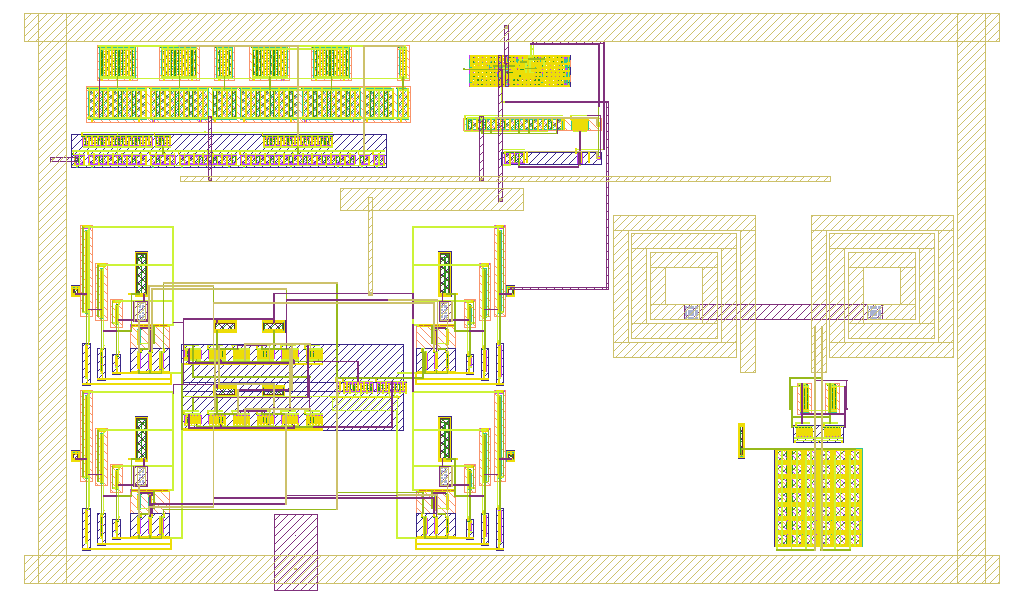
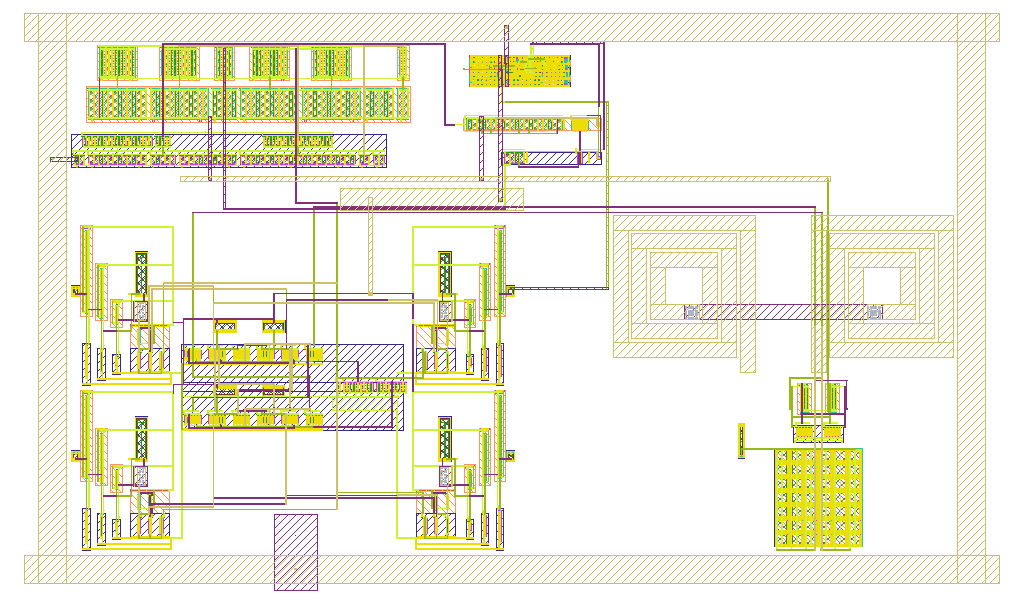
Phase 7 A5+A6: VCO load estimate + docs closeout + re-render
A5 VCO output load (review estimate, no resize): OUT_p ~494um / OUT_n ~431um routing (~40/35 fF)
+ DIV2 CML W=40 input gate (~40-55 fF) = ~75-95 fF/side -> ~-4 to -7% pull on the ~844 fF tank;
band 4.13-6.35 -> ~3.9-6.05 GHz, still covers the 4.8-5.0 GHz for the 2.4-2.5 GHz /2 output.

A6 docs: tracking.md CLOSED (LVS match uniquely, 522x309, all nets, no block edits); review-doc
Phase-7 closeout with the chip result, VCO load, 168 W4 waiver, DIV2 VDD tap (80 mA/um) + internal
VSS EM status, ~1.0deg I/Q offset, and the one declared area. Re-rendered.

Changed region(s): [[0.2188, 0.3267, 0.8125, 0.5347], [0.1562, 0.0594, 0.4375, 0.0891], [0.5, 0.1485, 0.5938, 0.1782]]

diff --git a/docs/layout-review-aug14.md b/docs/layout-review-aug14.md
@@ -289,3 +289,34 @@ DIV2_QUAD_v1. This is a reliability fix on the VSS rail; the DRC/LVS/port sign-o
 - **Pins reduced 12 → 10:** RST_N + MON_OUT dropped (no matching block port; see docs/pins.md).
 - **Remaining:** inter-block routing (rungs 4a–4c) per `docs/phase7-routing-plan.md`, then the
   chip LVS match and the `lvs_config.json` repoint to `chip_top`.
+
+---
+
+## Phase-7 chip CLOSED — LVS clean (2026-08-20)
+
+`chip_top` is fully placed, routed, and **LVS-clean**. Image: `docs/img/chip_top_black.png`.
+
+- **Declared area: 522 × 309 µm** (the one number to use; grew from 472×270 for the GND-ring
+  margin). Config B is 550 × 1110 — 28 µm width margin, ~800 µm vertical headroom.
+- **Chip LVS: `verify_cp chip_top` → magic DRC 0, 12 ports, "match uniquely", zero property/port
+  errors, PASS.** 5-block regression all exit 0. All 12 nets connected (VDDA=CP+ibias+vco,
+  VDDD=PFD+DIV2, ground ring, UP/DOWN/FB, VGP/VGN/IB_DIV2, VCO_OUTP/N). All signals routed at
+  chip level via clear M3/M4 columns above each pin — **no block layout edits were needed.**
+- **W4 waiver: 168 items** (84 PL.5a_LV + 84 PL.5b_LV) — nmoscap_3p3 gencell field-poly-to-guard,
+  device-internal; `klayout_signoff.py chip_top` reports them WAIVED and PASSes.
+- **Grounds (Bailey req):** 13 pins incl VSSA (quiet quadrant ground, pin 0) + VSSD. They are ONE
+  electrical net (shared p-substrate, no deep-nwell); LVS carries one ground port (VSSA), the two
+  pads separate only bond-wire L. 0/0 boundary present at the die extent.
+- **VCO output load (A5, estimate — NOT resized):** OUT_p route ~494 µm, OUT_n ~431 µm (0.4 µm
+  M3/M4, ~0.08 fF/µm ⇒ ~40 / ~35 fF) + DIV2 CML input gate (W=40 ⇒ ~40–55 fF) ⇒ **~75–95 fF/side**.
+  Against the ~844 fF tank that is Δf ≈ **−4 to −7 %** (f ∝ 1/√C): the characterized 4.13–6.35 GHz
+  band shifts to ≈ 3.9–6.05 GHz, still covering the 4.8–5.0 GHz needed for the 2.4–2.5 GHz ÷2
+  output. Retunable via VTUNE; no device change.
+- **DIV2 internal VSS EM:** unchanged from the Aug-14 note (per-converter VSS ties ~0.28–0.56 µm
+  carrying ~2.96 mA — over; fix = widen the plate/ties, a DIV2-internal reliability item, not a
+  chip-route issue). The DIV2 **VDD** chip tap is a single 0.28 µm M4 collector at 80 mA/µm — a
+  chip-level multi-point tap or a wider internal collector is the fix (Greg's call; not reopened).
+- **I/Q offset:** the divider I/Q phase target is 90° with a residual **~1.0° offset** (layout/route
+  asymmetry) — the VCO_OUTP/N pair is connected but length-mismatched (OUT_p ~337 µm > OUT_n ~268 µm,
+  ~69 µm); stacking vco above/below DIV2 (using the ~800 µm vertical headroom) would shorten and
+  match the pair — a floorplan option, Greg's call.

diff --git a/docs/tracking.md b/docs/tracking.md
@@ -179,7 +179,21 @@ phase at ~2.5 GHz is too fast for a monitor pad). Pins 12→10 (info.yaml + docs
 - **LVS harness** — `chip_top.abstract` (vco preload + inductor ignore). `verify_cp.sh chip_top`
   runs end-to-end: on the unrouted merge magic DRC 0, 25 nets, LVS DO NOT MATCH (missing metal).
 
-**ROUTING (rungs 3a/4a–4c) — 🟡 WIP (power + GND ring + ports + 3 signals; 6 nets left).**
+**CHIP LVS CLEAN — PHASE 7 ROUTING CLOSED (2026-08-20). 🟢** `verify_cp chip_top`: magic DRC 0,
+12 ports, **"match uniquely"**, zero property/port errors, PASS; 5-block regression all exit 0;
+KLayout signoff PASS (168 W4 waiver only); check_placement OK; die **522 × 309 µm**. All 12 nets
+connected — VDDA(CP+ibias+vco), VDDD(PFD+DIV2), ground ring, UP/DOWN/FB, VGP/VGN/IB_DIV2,
+VCO_OUTP/N — **all routed at chip level via clear M3/M4 columns above each pin; NO block layout
+edits needed** (the "buried pin" story was wrong once tapped-at-extent + clear-column). Grounds:
+13 pins incl VSSA/VSSD, one electrical net (substrate), one LVS ground port (VSSA) — A1b question
+for Bailey. 0/0 boundary added. Same-layer escape (extend a pin along its own axis, then via up)
+routed the tight std-cell pins. VCO_OUT pair length-mismatched (OUT_p 337 > OUT_n 268 µm) — connect
+OK, matching is a floorplan option (stack vco/DIV2, ~800 µm vertical headroom). See
+docs/layout-review-aug14.md Phase-7 closeout for the VCO load (~−5% pull) + DIV2 VDD/VSS EM notes.
+Remaining for tapeout: lvs_config repoint (Phase B), #143 area/pin update (Greg, browser).
+
+---
+HISTORY (pre-close WIP): **ROUTING (rungs 3a/4a–4c) — 🟡 WIP (power + GND ring + ports + 3 signals; 6 nets left).**
 - **SAME-LAYER ESCAPE (the technique that unblocked signals):** do NOT drop a via pad on a
   block pin (a 0.38 µm pad vs 0.28 µm pins at 0.28 µm pitch → M2.2a). Instead EXTEND the pin
   along its OWN axis at min width (no via, no enclosure → neighbour spacing stays as-drawn) out
